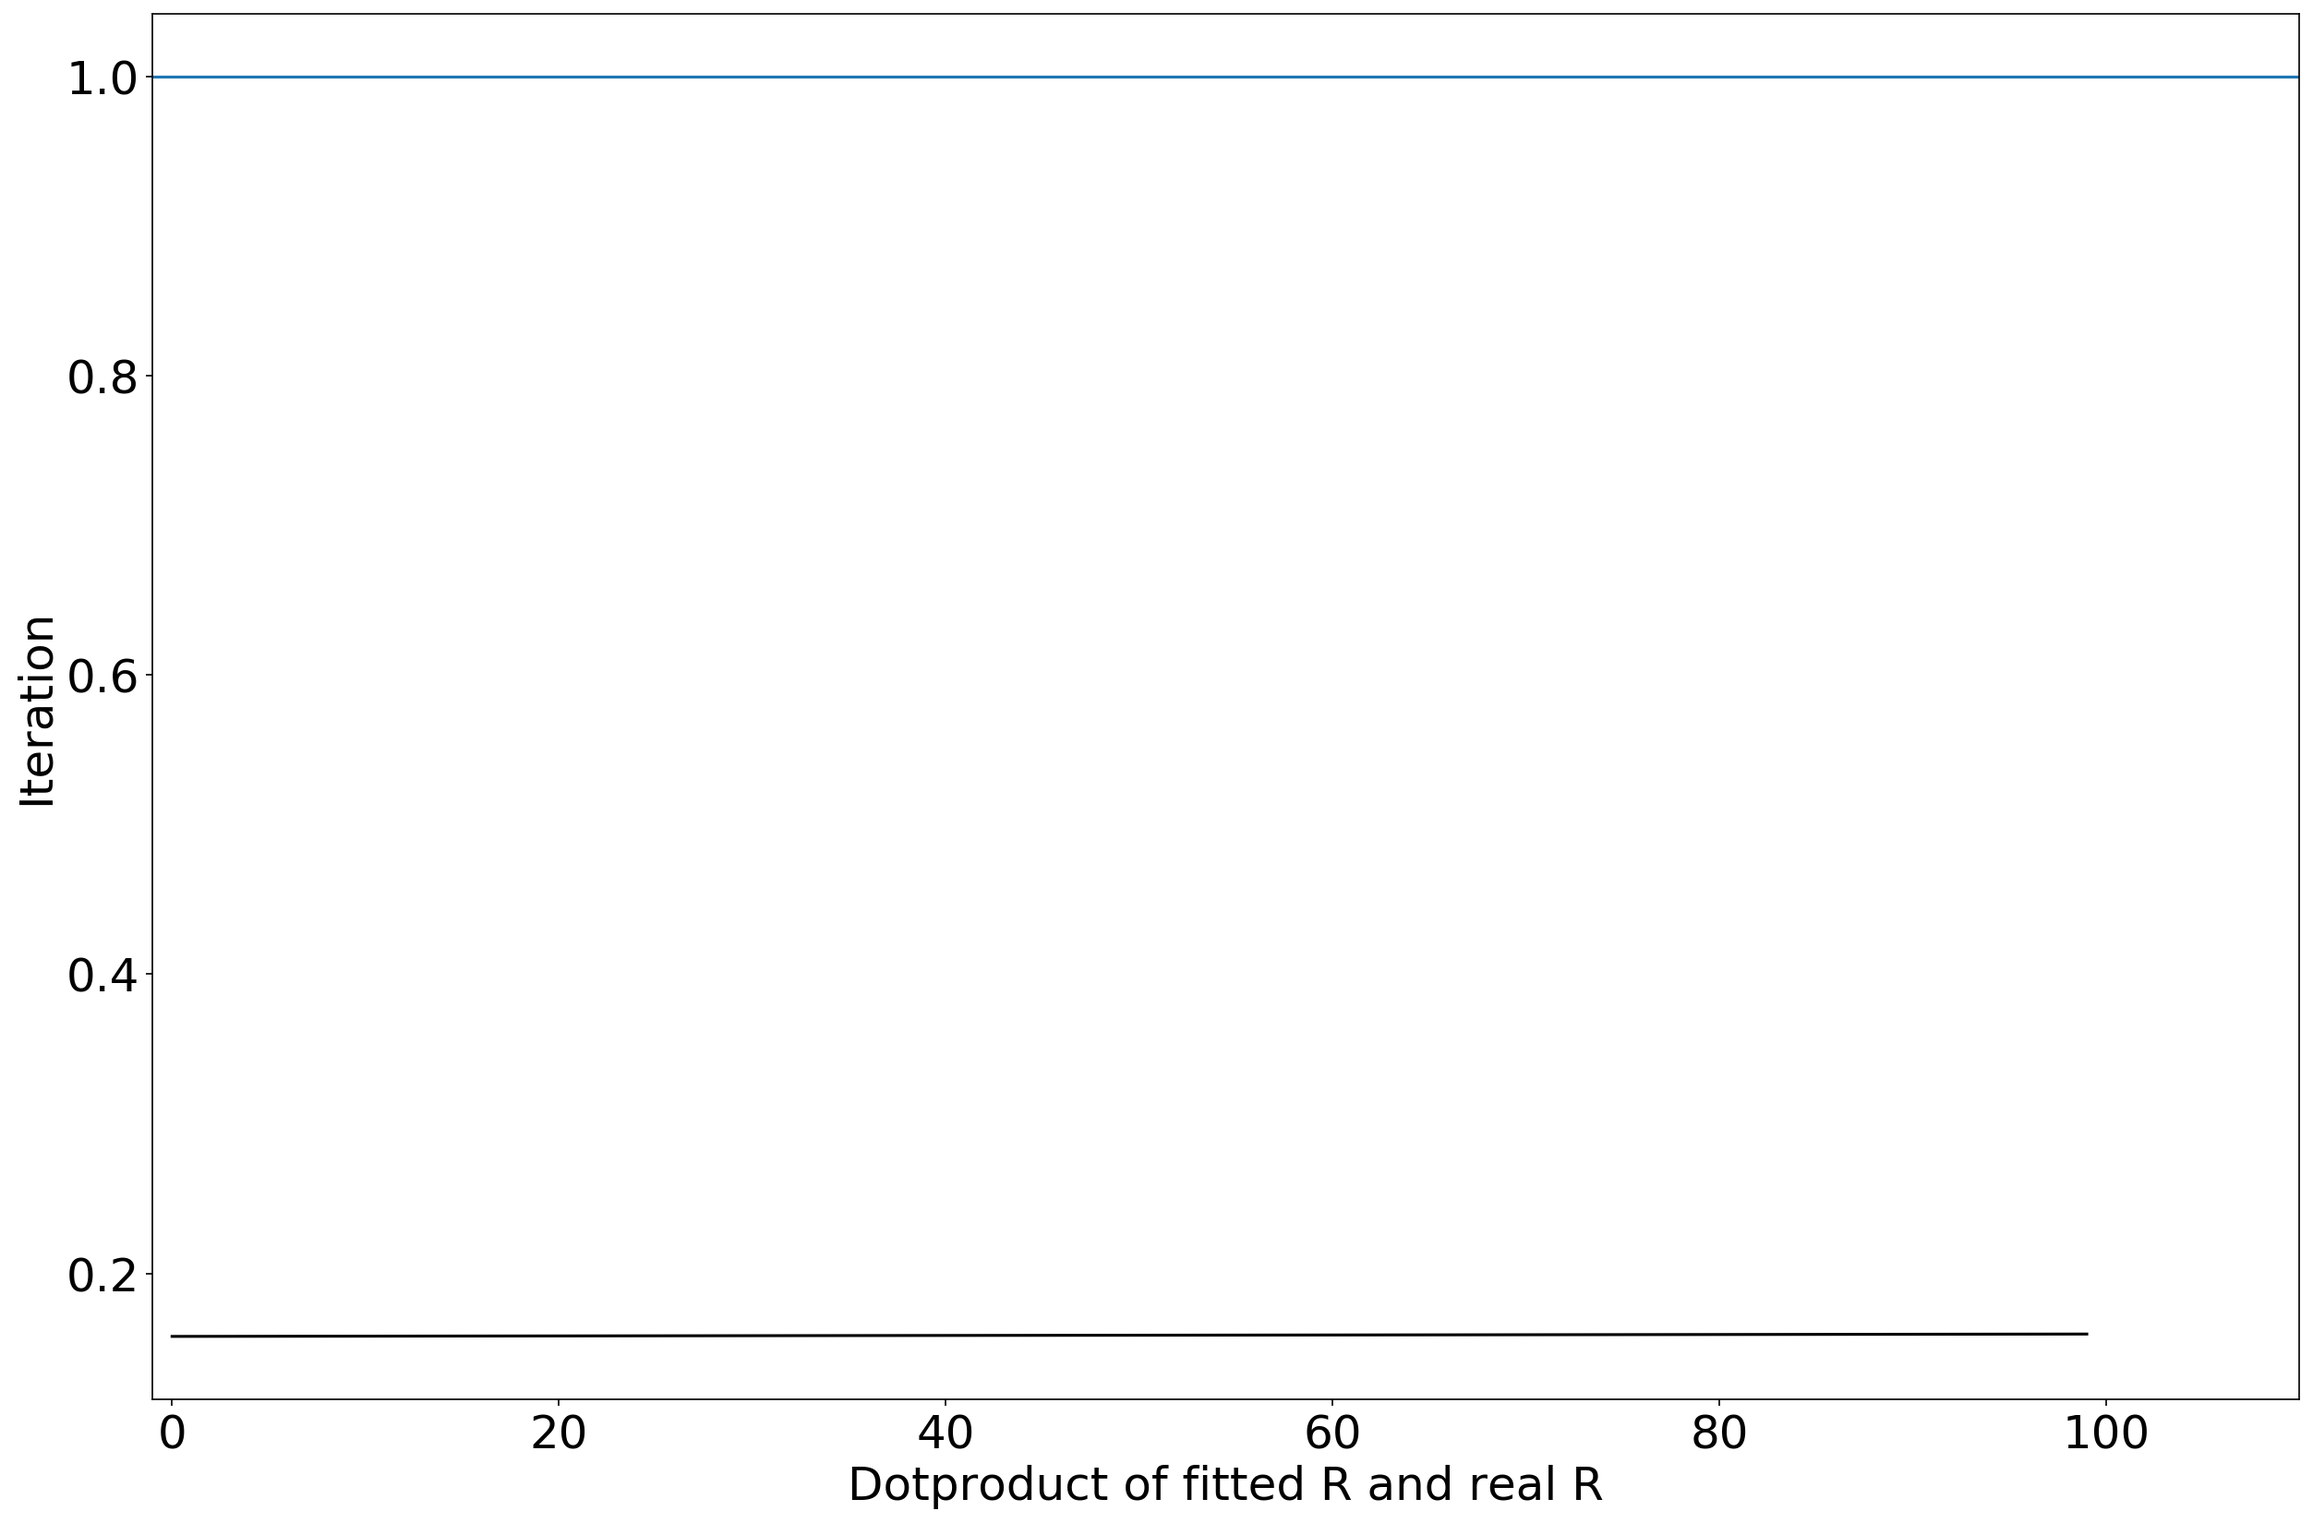
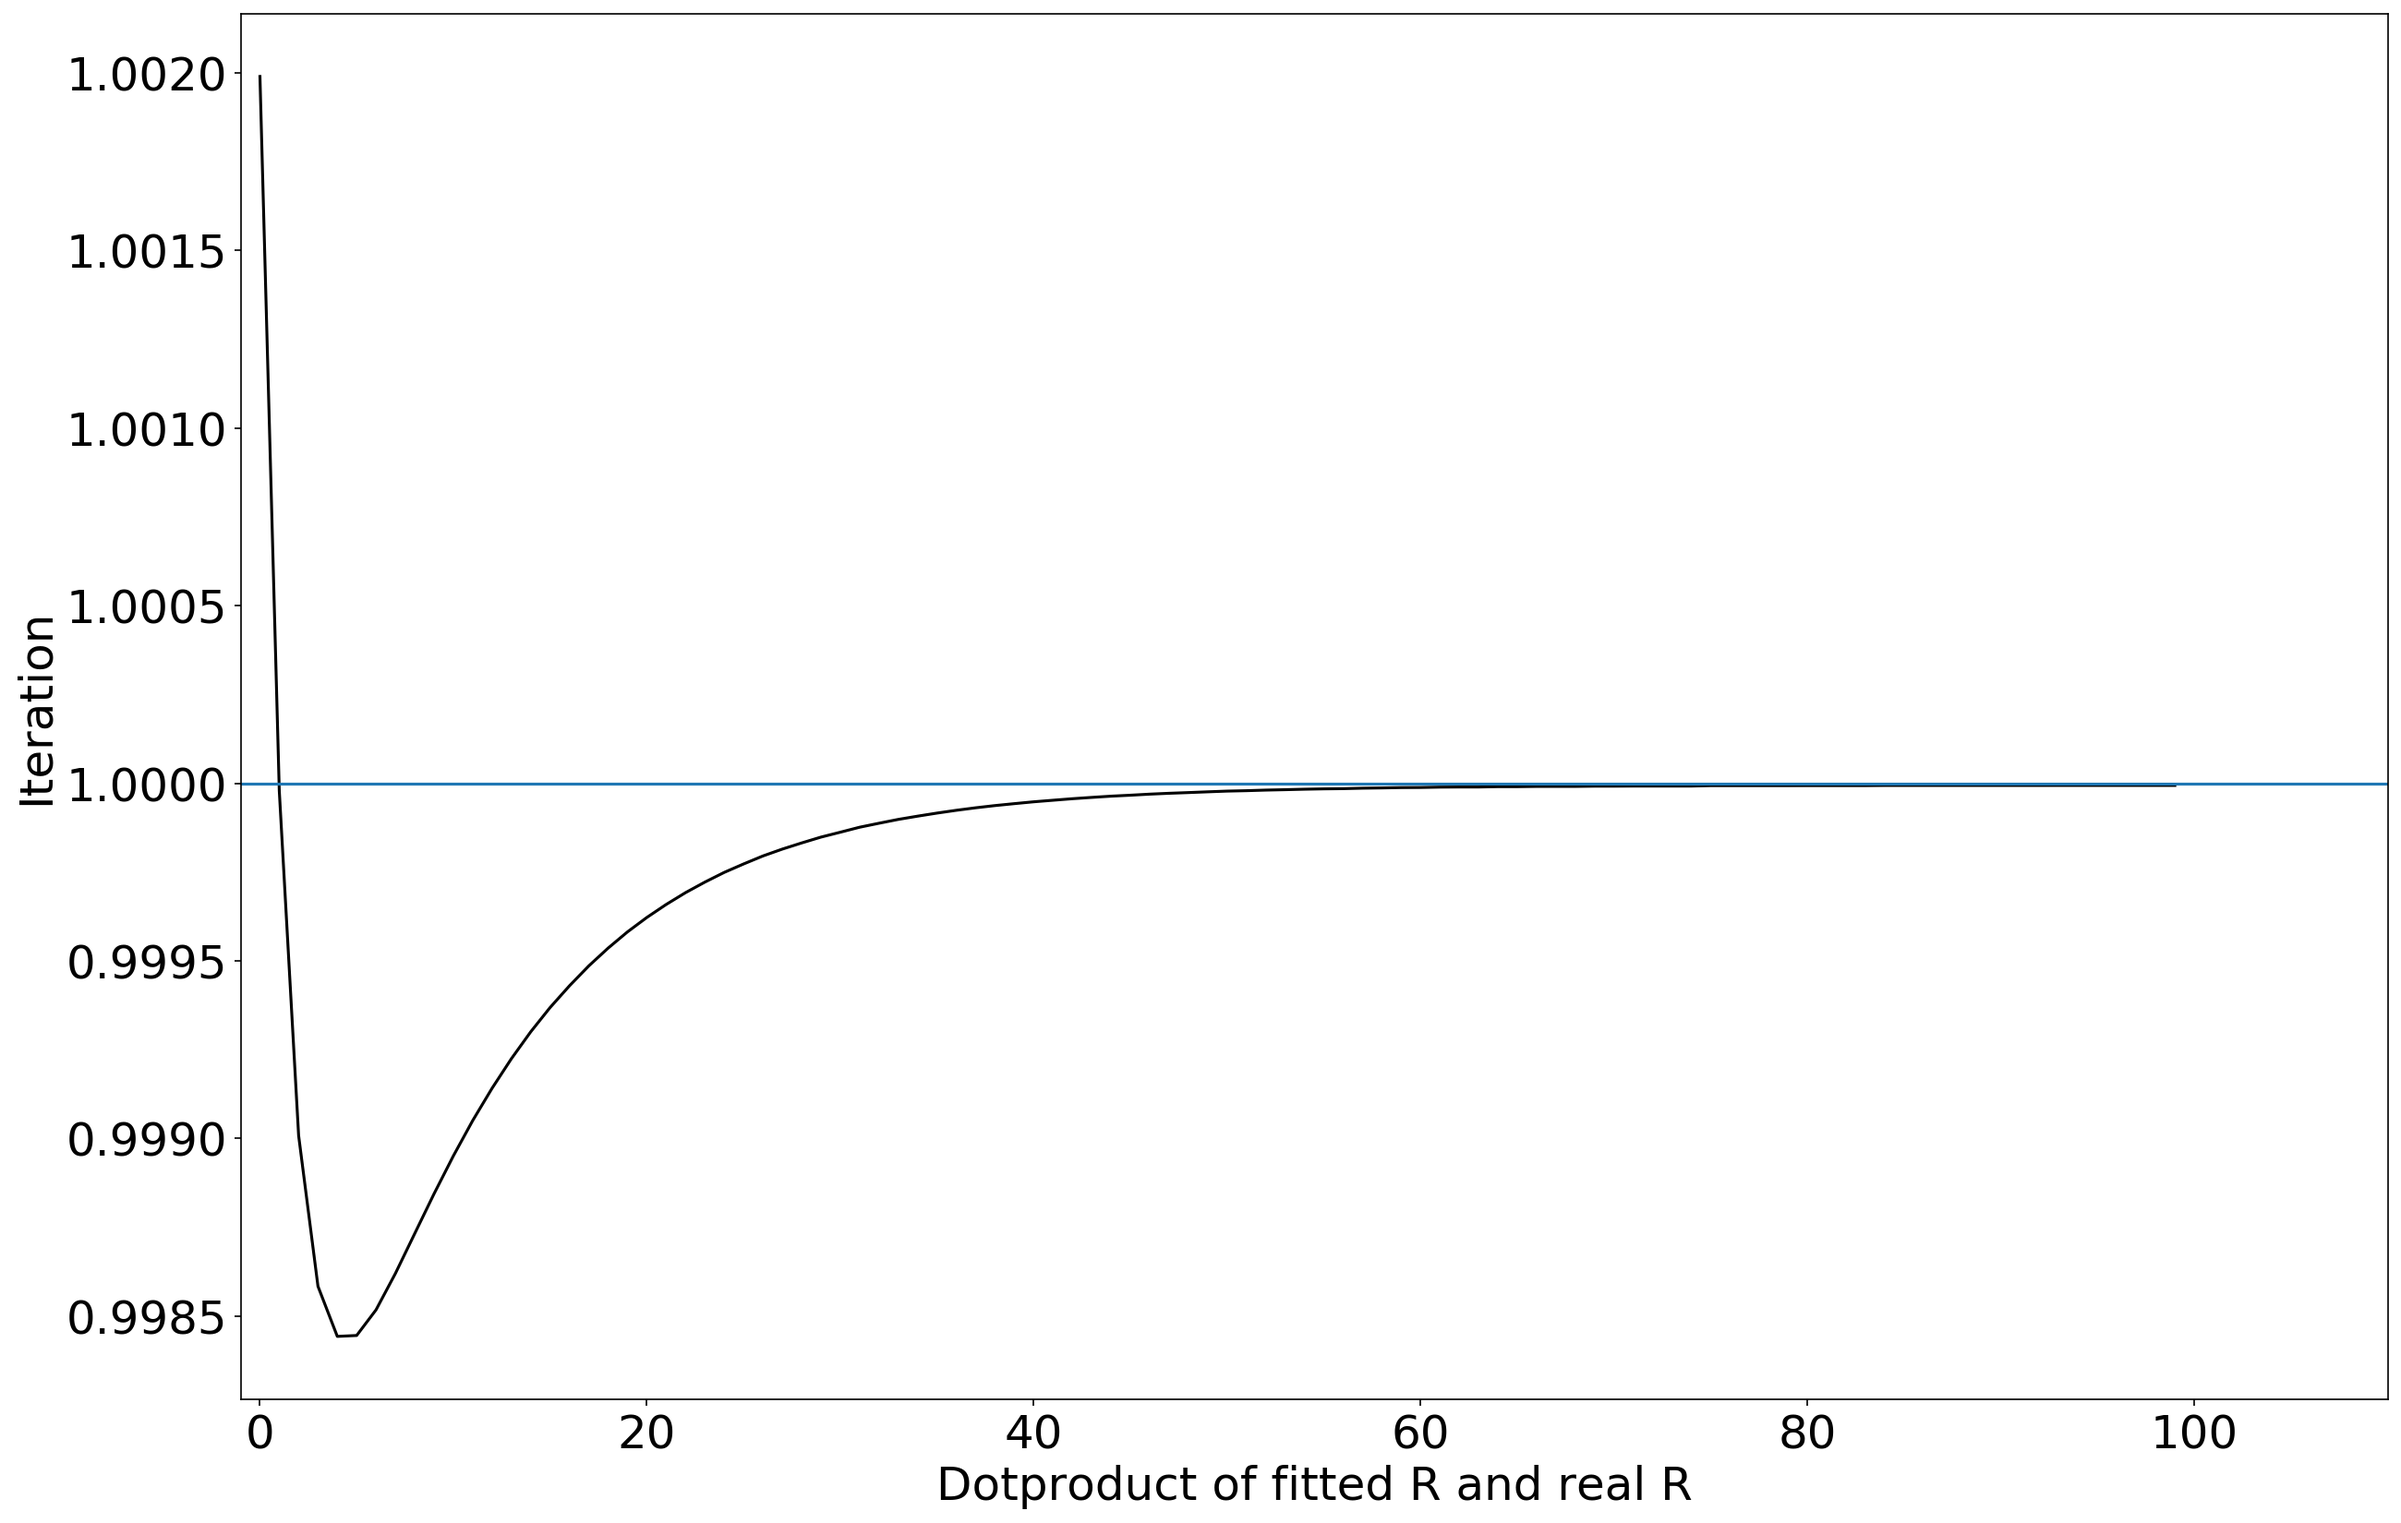
Update

diff --git a/mock_data.py b/mock_data.py
@@ -113,8 +113,7 @@ def mock_m(d, r, nn, seed = 14, max = 0.1):
     R_all = predict_R(d['atm_param_p'], nn)
     R = np.mean(R_all, axis=0)
     BR = np.einsum('ij,j->i',B,R)
-    r *= np.dot(BR,BR)**0.5
-    R /= np.dot(BR,BR)**0.5
+    r /= np.dot(BR,BR)**0.5
     BR /= np.dot(BR,BR)**0.5
 
     # predict m from theta and take parallax and reddening into account for m
@@ -141,7 +140,6 @@ def mock_m(d, r, nn, seed = 14, max = 0.1):
         m_err[idx] = replace
 
     d['mag_err'] = m_err
-    r /= np.dot(BR,BR)**0.5
 
     return BR, dE, BdR
 
@@ -152,6 +150,7 @@ def noise(d, seed = 14):
     """
     #
     rng = np.random.default_rng(seed)
+
 
     # create array where the noiseless values are saved
     dtype = [
